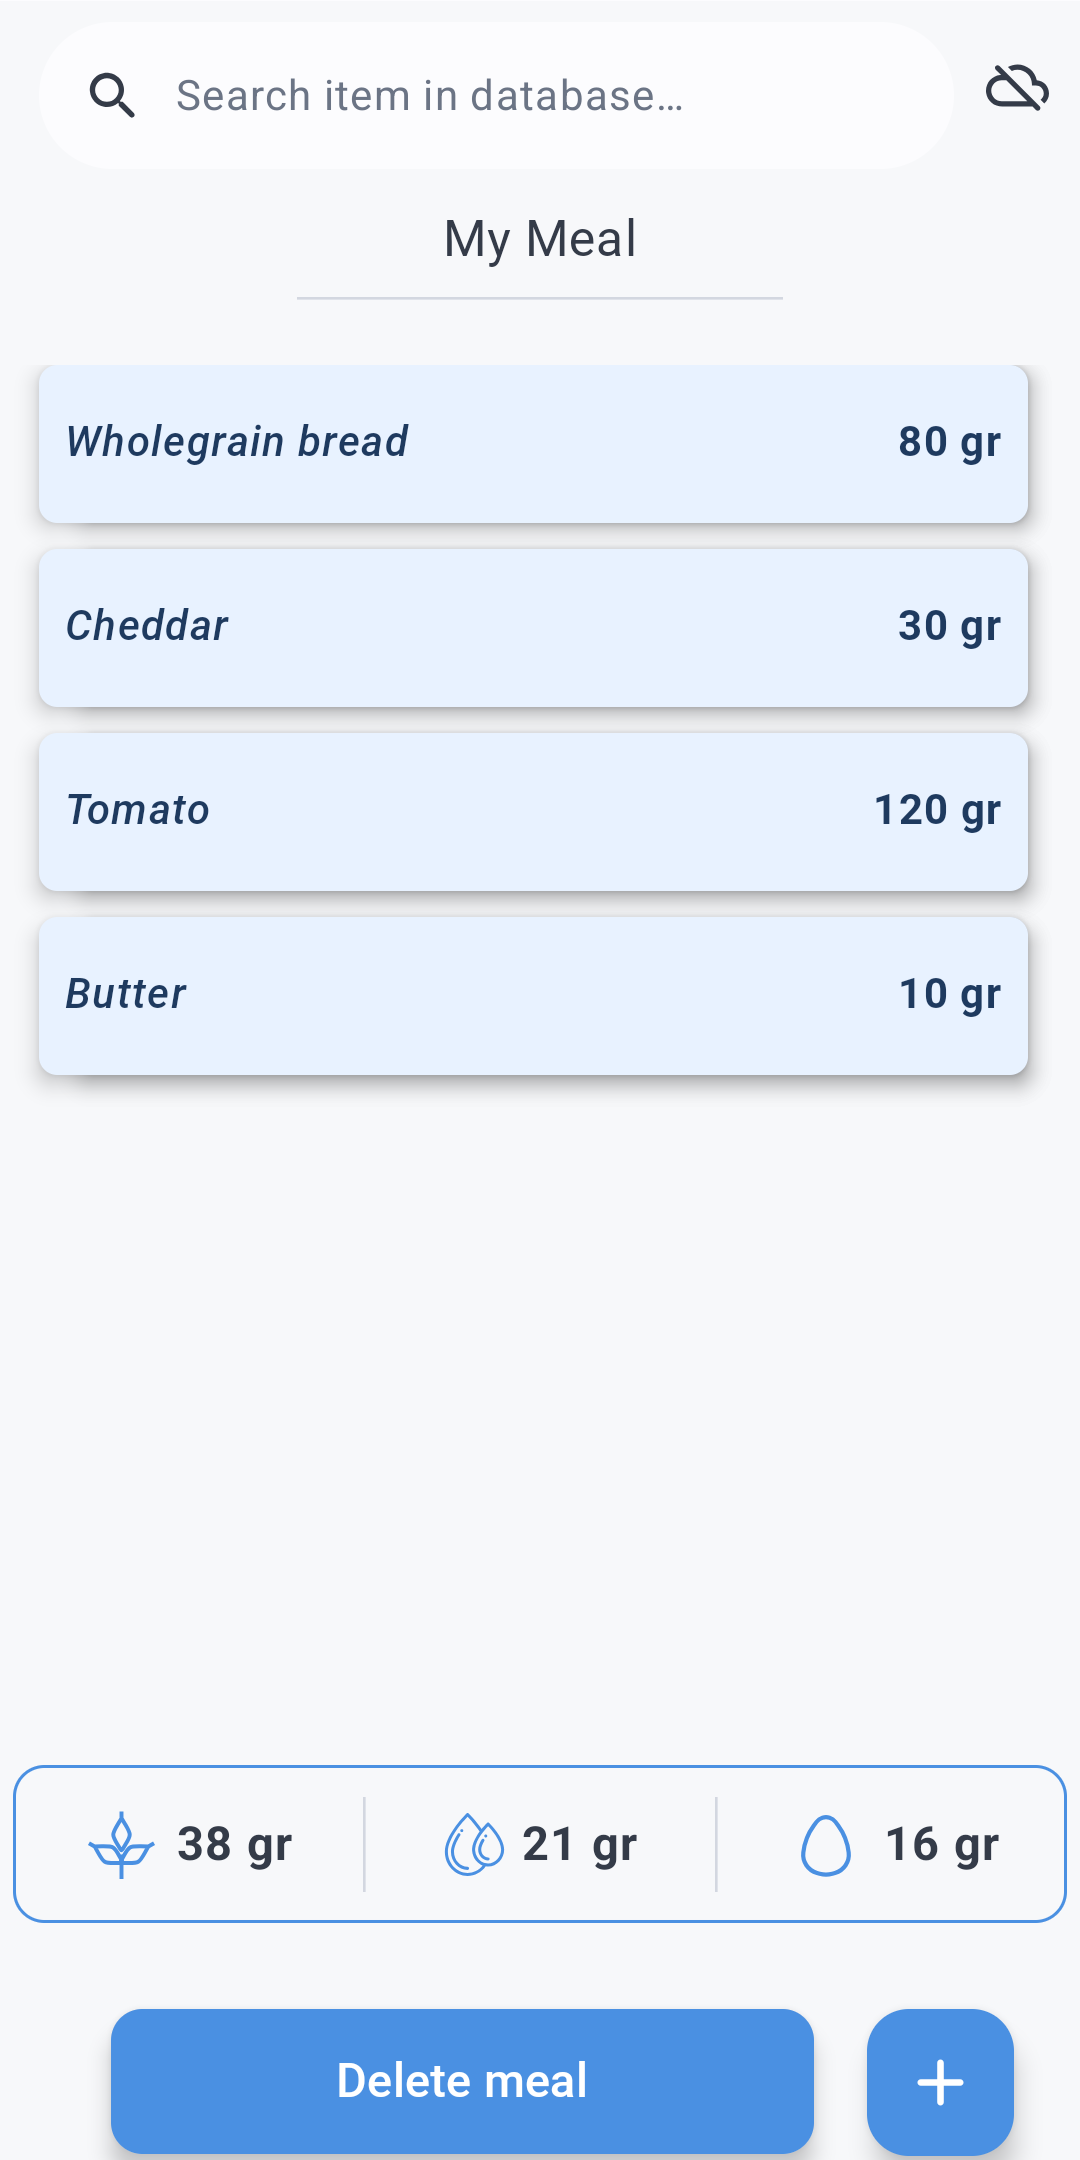
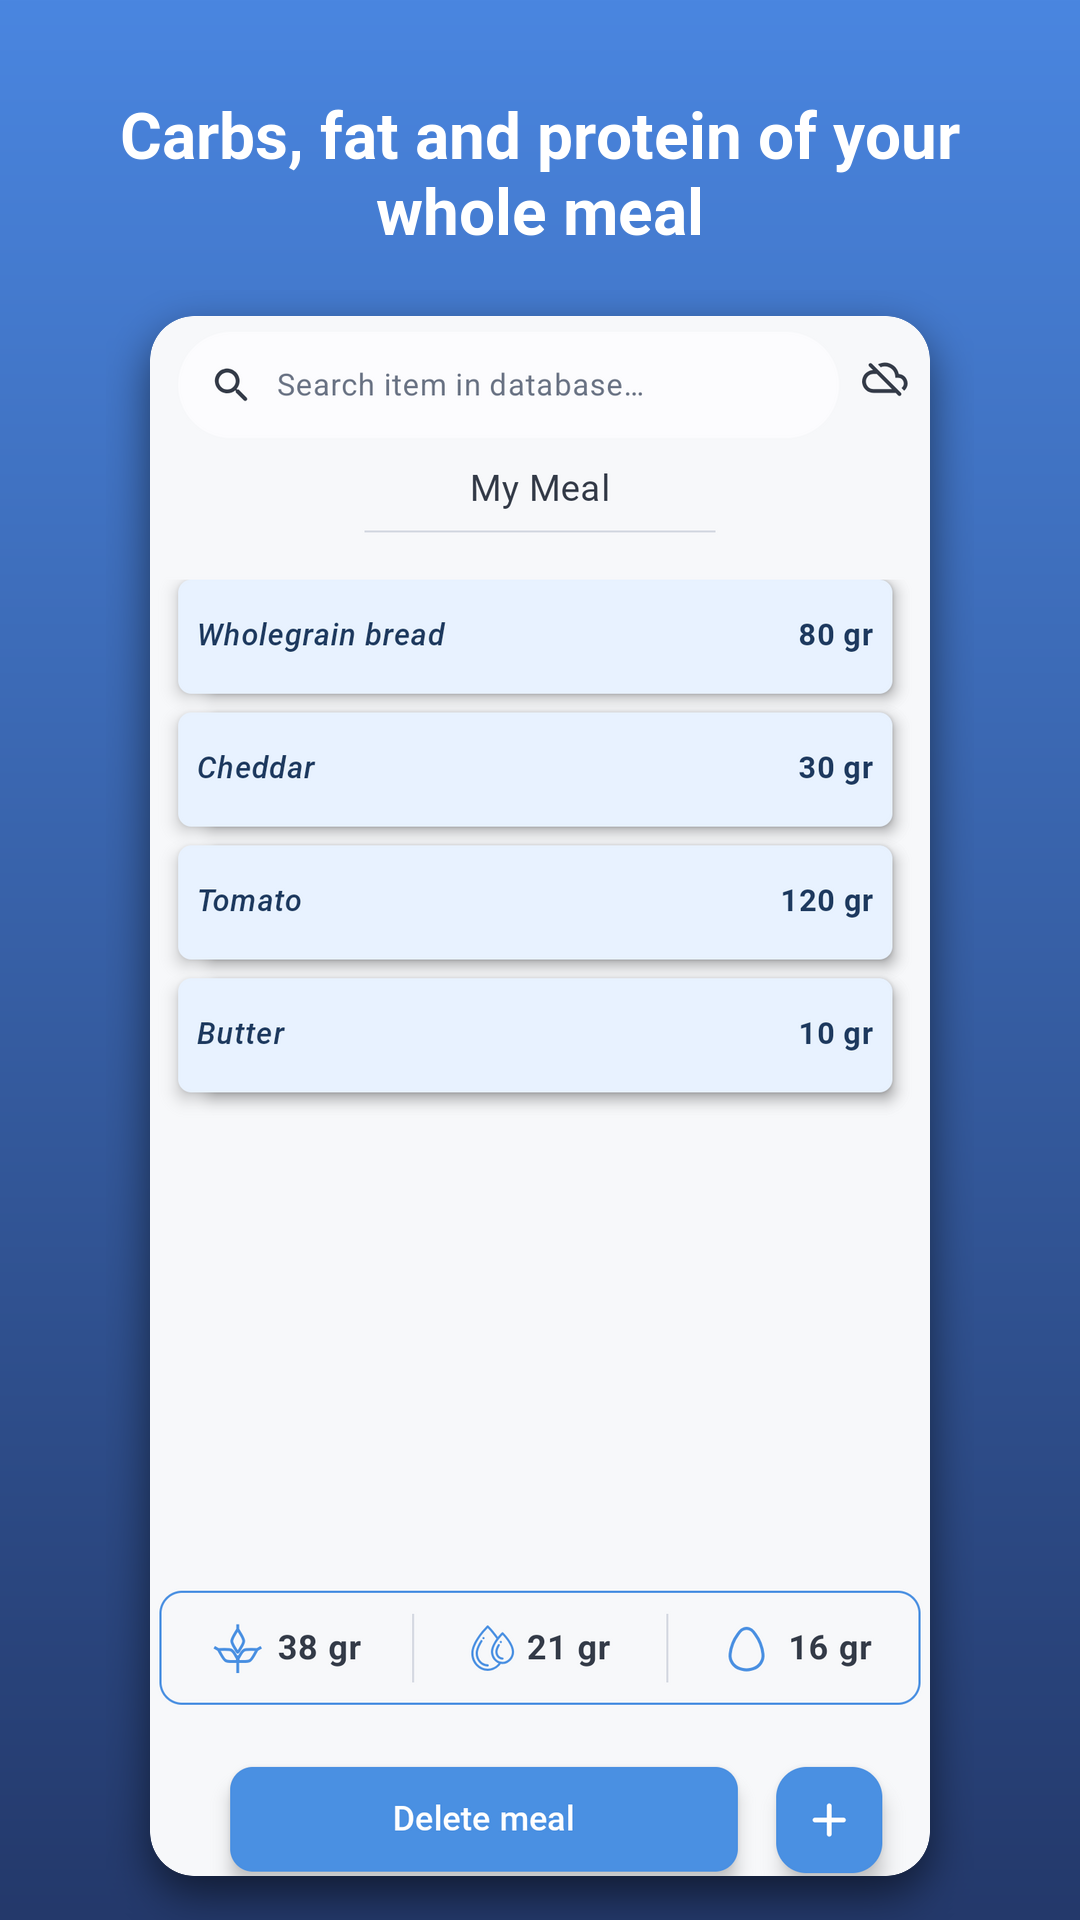
docs: frame store screenshots as 9:16 and record Play upload status
Phone screenshots are now 1080x1920 with a caption, the format the Play
Console accepts; the unframed captures moved to store/raw-screenshots/.
The release guide records the closed-testing upload, the Play app signing
fingerprints added to Firebase and the new Protected with Play menu paths.

diff --git a/docs/RELEASE.md b/docs/RELEASE.md
@@ -5,20 +5,21 @@ the Firebase project `mealcalculator-584e6` and the Play Console developer accou
 
 Steps marked *(once)* are only needed for the first release.
 
-**Status (2026-11-01):** done: the Firebase Android app
-`1:94679021901:android:c5dd0bc546175f0d0b9f04` is registered with the debug key's
-SHA-1/SHA-256; the App Check and Play Integrity APIs are enabled; Play Integrity
-is registered as the App Check provider; an emulator debug token is registered.
-App Check is **not enforced**. Still open: 1.2–1.4, 2–4, and in 5 the Play
-fingerprints, the Play Console Play Integrity link, debug tokens for your own
-devices and enforcement.
+**Status (2026-11-07):** done: Firebase setup (1), upload key (2), Play Console app
+setup (3), and version 1.0.0 (versionCode 1) uploaded to closed testing and sent for
+review. The Firebase Android app `1:94679021901:android:c5dd0bc546175f0d0b9f04` has
+the SHA-1/SHA-256 of the debug key, the upload key and the Play app signing key.
+Play Integrity is registered as the App Check provider; an emulator debug token is
+registered. App Check is **not enforced**. Still open in 5: the Play Console Play
+Integrity link, debug tokens for your own devices, the real-device test and
+enforcement. Then 12 testers for 14 days and the production access application.
 
 ## 1. Firebase *(once)*
 
 1. **Register the Android app.** Firebase console → Project settings → *Add app* →
    Android, package name `net.zimmercarral.mealcalculator`. Add the debug SHA-1
-   from `./gradlew signingReport`. Download `google-services.json` to `app/`.
-   (The old `at.zimmercarral.mealcalc` app entry can be deleted afterwards.)
+   from `./gradlew signingReport`. Download `google-services.json` to `app/`. (The old
+   `at.zimmercarral.mealcalc` app entry can be deleted afterwards.)
 2. **Google sign-in support email.** Authentication → Sign-in method → Google:
    support email `jzimmer1000@gmail.com`.
 3. **OAuth consent screen.** Google Cloud console (same project) → *Google Auth
@@ -34,8 +35,8 @@ devices and enforcement.
        firebase deploy --only hosting,firestore:rules
 
    The pages are then live at:
-   - https://mealcalculator-584e6.web.app/privacy
-   - https://mealcalculator-584e6.web.app/delete-account
+    - https://mealcalculator-584e6.web.app/privacy
+    - https://mealcalculator-584e6.web.app/delete-account
 
 ## 2. Upload key and signing *(once)*
 
@@ -62,17 +63,17 @@ type *App*, *Free*.
 
 ### App content
 
-| Section | Answer |
-|---|---|
-| Privacy policy | `https://mealcalculator-584e6.web.app/privacy` |
-| App access | All functionality is available without special access. Sign-in is optional and uses the reviewer's own Google account. |
-| Ads | No ads |
-| Content rating | IARC questionnaire, category *Utility/Productivity*, answer *No* everywhere. Expected rating: Everyone / PEGI 3 |
-| Target audience | 18 and over. This does not restrict who can download the app and avoids the Families policy requirements. |
-| News app | No |
-| Health apps | Tick only **Nutrition and weight management**. The app is not a medical device and makes no medical claims. |
-| Government app / Financial features | No / none |
-| Data safety | see below |
+| Section                             | Answer                                                                                                                 |
+|-------------------------------------|------------------------------------------------------------------------------------------------------------------------|
+| Privacy policy                      | `https://mealcalculator-584e6.web.app/privacy`                                                                         |
+| App access                          | All functionality is available without special access. Sign-in is optional and uses the reviewer's own Google account. |
+| Ads                                 | No ads                                                                                                                 |
+| Content rating                      | IARC questionnaire, category *Utility/Productivity*, answer *No* everywhere. Expected rating: Everyone / PEGI 3        |
+| Target audience                     | 18 and over. This does not restrict who can download the app and avoids the Families policy requirements.              |
+| News app                            | No                                                                                                                     |
+| Health apps                         | Tick only **Nutrition and weight management**. The app is not a medical device and makes no medical claims.            |
+| Government app / Financial features | No / none                                                                                                              |
+| Data safety                         | see below                                                                                                              |
 
 ### Data safety
 
@@ -84,7 +85,8 @@ before submitting; it lists what each Firebase SDK collects.
 - **Is all data encrypted in transit?** Yes.
 - **Can users request data deletion?** Yes, in the app and at
   `https://mealcalculator-584e6.web.app/delete-account`.
-- **Shared with third parties:** none. Firebase acts as a service provider, which does not count as sharing.
+- **Shared with third parties:** none. Firebase acts as a service provider, which does not count as
+  sharing.
 - **Collected** (all *optional*, only when the user signs in to sync):
 
   | Data type | Purposes |
@@ -94,7 +96,8 @@ before submitting; it lists what each Firebase SDK collects.
   | Personal info → User IDs | App functionality, Account management |
   | App activity → Other user-generated content (food items) | App functionality |
 
-  Data is processed ephemerally: No. Collection is required: No, users can choose (sign-in is optional).
+  Data is processed ephemerally: No. Collection is required: No, users can choose (sign-in is
+  optional).
 
 ### Store listing
 
@@ -102,9 +105,12 @@ Category **Food & Drink**. Contact email `jzimmer1000@gmail.com`. Website
 `https://mealcalculator-584e6.web.app`.
 
 Graphics are in [`store/`](../store):
+
 - App icon: `store/icon-512.png` (512×512)
 - Feature graphic: `store/feature-graphic.png` (1024×500)
-- Phone screenshots: `store/screenshots/*.png` (1080×2160)
+- Phone screenshots: `store/screenshots/*.png` (1080×1920, 9:16, the format the Play Console
+  requires).
+  The unframed originals are in `store/raw-screenshots/`.
 
 **English (en-US)**
 
@@ -176,23 +182,23 @@ production access. Start this early.
 
 ## 5. After the first upload *(once)*
 
-1. **Add both SHA fingerprints to Firebase.** Play Console → Test and release →
-   *App integrity* → App signing: copy the SHA-1 and SHA-256 of the **app signing
+1. **Add both SHA fingerprints to Firebase.** Play Console → *Protected with Play* →
+   Play Store protection → Play app signing: copy the SHA-1 and SHA-256 of the **app signing
    key** and of the **upload key** into the Firebase Android app. Without the
    app signing key's SHA-1, Google sign-in fails in the version installed from
    Play.
 2. **App Check.**
-   - Play Console → App integrity → Play Integrity API: link the Google Cloud
-     project `mealcalculator-584e6`.
-   - The *Play Integrity* provider is already registered in Firebase App Check.
-     It only works once the app signing key's SHA-256 (step 1 above) is added.
-   - Debug builds log a debug token on first launch (`adb logcat | grep
-     DebugAppCheckProvider`). Add it under App Check → *Manage debug tokens*.
-   - Watch the App Check metrics for Cloud Firestore for a few days. When nearly
-     all requests are verified, click **Enforce**. Unverified clients (old
-     versions, modified apps) are then rejected. That includes the old
-     `at.zimmercarral.mealcalc` build, which has no App Check: move to the
-     new package on all your devices before enforcing.
-3. **Test on a real device** with a throwaway Google account: sign in, sync,
-   *Delete account…*. Then check in the Firebase console that the user and their
+    - Play Console → *Protected with Play* → Play Integrity API → Get started: link
+      the Google Cloud project `mealcalculator-584e6`.
+    - The *Play Integrity* provider is already registered in Firebase App Check.
+      It only works once the app signing key's SHA-256 (step 1 above) is added.
+    - Debug builds log a debug token on first launch (`adb logcat | grep
+      DebugAppCheckProvider`). Add it under App Check → *Manage debug tokens*.
+    - Watch the App Check metrics for Cloud Firestore for a few days. When nearly
+      all requests are verified, click **Enforce**. Unverified clients (old
+      versions, modified apps) are then rejected. That includes the old
+      `at.zimmercarral.mealcalc` build, which has no App Check: move to the
+      new package on all your devices before enforcing.
+3. **Test on a real device** with a throwaway Google account: sign in, sync, *Delete account…*. Then
+   check in the Firebase console that the user and their
    `users/{uid}/foodItems` documents are gone.
